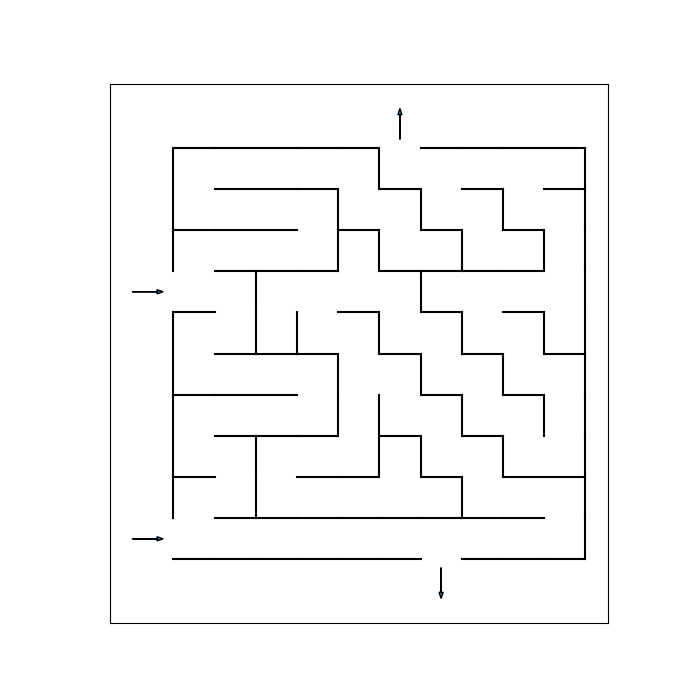
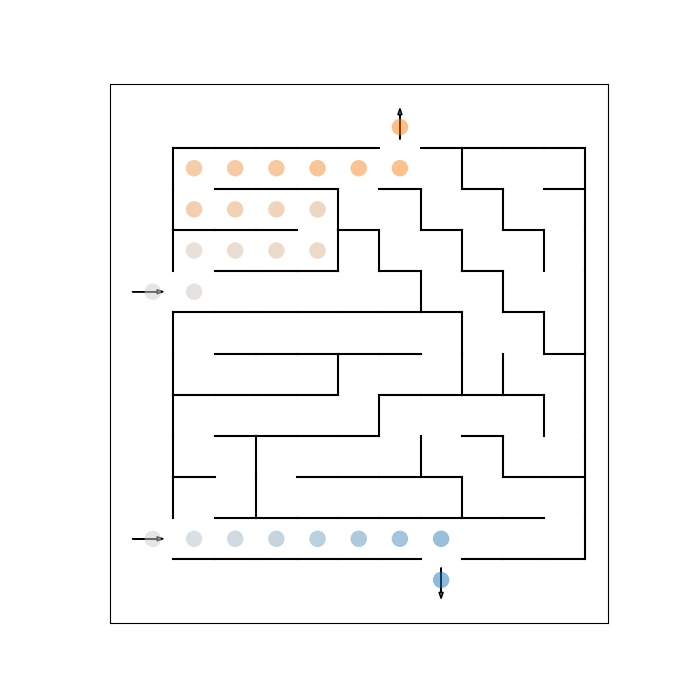
feat: finish task C

diff --git a/solver/taskCSolver.py b/solver/taskCSolver.py
@@ -7,121 +7,94 @@
 # -------------------------------------------------------------------
 
 
+import heapq
+from typing import List, Tuple
 from maze.util import Coordinates
 from maze.maze import Maze
-from typing import List
-import heapq
-
-class ComparableCoordinates:
-    """
-    A wrapper class for Coordinates that allows comparison based on distance.
-    This is necessary because Coordinates cannot be directly compared in a heapq.
-    """
-    def __init__(self, distance: int, coordinates: Coordinates):
-        self.distance = distance
-        self.coordinates = coordinates
-
-    def __lt__(self, other):
-        # Compare based on distance for the priority queue
-        return self.distance < other.distance
-
-    def __eq__(self, other):
-        # Equality check based on distance and coordinates
-        return self.distance == other.distance and self.coordinates == other.coordinates
-
-    def __hash__(self):
-        # Allows the object to be used in sets and dictionaries
-        return hash((self.distance, self.coordinates))
-
-    def __repr__(self):
-        # String representation for debugging
-        return f"ComparableCoordinates(distance={self.distance}, coordinates={self.coordinates})"
 
 class greedySolver:
     def __init__(self):
-        self.paths = []  # To store the paths from entrances to exits
-        self.used_cells = set()  # Track the cells that have been used in paths
-        self.total_cost = 0  # Total cost of paths found
-        self.all_solved = False  # Initialize the all_solved flag
+        self.entrance_exit_paths = {}
+        self.total_explored_cells = 0
+        self.all_solved = False
+        self.total_cost = 0
 
-    def heuristic(self, current: Coordinates, goal: Coordinates) -> int:
-        # Use Manhattan distance as a heuristic
-        return abs(current.getRow() - goal.getRow()) + abs(current.getCol() - goal.getCol())
+    class ComparableCoordinates:
+        """
+        A wrapper class for Coordinates that compares based on total cost (distance + heuristic).
+        """
+        def __init__(self, total_cost: int, coordinates: Coordinates):
+            self.total_cost = total_cost
+            self.coordinates = coordinates
+
+        def __lt__(self, other):
+            return self.total_cost < other.total_cost
+
+        def __repr__(self):
+            return f"ComparableCoordinates(total_cost={self.total_cost}, coordinates={self.coordinates})"
 
     def solveMaze(self, maze: Maze, entrances: List[Coordinates], exits: List[Coordinates]) -> bool:
-        all_paths_found = True  # Flag to check if all paths are found
+        self.entrance_exit_paths.clear()
+        used_cells = set()
+        total_cost = 0
+        all_paths_found = True
 
-        for entrance, exit in zip(entrances, exits):
-            path = self.find_path(maze, entrance, exit)
+        for i in range(len(entrances)):
+            entrance = entrances[i]
+            exit = exits[i]
+            path, cost = self._greedy_search(maze, entrance, exit, used_cells)
+
             if path:
-                self.paths.append(path)
-                self.total_cost += self.calculate_path_cost(maze, path)
-                # Mark cells in this path as used
-                for cell in path:
-                    self.used_cells.add(cell)
+                self.entrance_exit_paths[(entrance, exit)] = path
+                total_cost += cost
+                used_cells.update(path)
             else:
-                all_paths_found = False  # If any path can't be found, mark it as false
-                break  # Stop processing if any path is not found
+                all_paths_found = False
+                break
 
-        # Set the all_solved flag based on whether all paths were found
         self.all_solved = all_paths_found
+        self.total_cost = total_cost
         return all_paths_found
 
-    def find_path(self, maze: Maze, start: Coordinates, goal: Coordinates) -> List[Coordinates]:
-        # Priority queue for the greedy search
-        queue = []
-        heapq.heappush(queue, ComparableCoordinates(0, start))  # Use the wrapper class
-        came_from = {start: None}
-        cost_so_far = {start: 0}
+    def _greedy_search(self, maze: Maze, start: Coordinates, goal: Coordinates, used_cells: set) -> Tuple[List[Coordinates], int]:
+        pq = []
+        dist = {start: 0}
+        predecessors = {}
+        heapq.heappush(pq, self.ComparableCoordinates(0 + self._manhattan_distance(start, goal), start))
 
-        while queue:
-            current = heapq.heappop(queue)  # Get the ComparableCoordinates object
-            curr_coordinates = current.coordinates
+        while pq:
+            current = heapq.heappop(pq)
+            current_cost = dist[current.coordinates]
+            curr_cell = current.coordinates
 
-            if curr_coordinates == goal:
-                return self.reconstruct_path(came_from, start, goal)
+            if curr_cell == goal:
+                return self._reconstruct_path(predecessors, curr_cell), current_cost
 
-            for neighbor in maze.neighbours(curr_coordinates):
-                if neighbor in self.used_cells or maze.hasWall(curr_coordinates, neighbor):
-                    continue  # Skip cells that are already used or have walls
+            for neighbor in maze.neighbours(curr_cell):
+                if neighbor in used_cells or maze.hasWall(curr_cell, neighbor):
+                    continue
 
-                new_cost = cost_so_far[curr_coordinates] + maze.edgeWeight(curr_coordinates, neighbor)
-                if neighbor not in cost_so_far or new_cost < cost_so_far[neighbor]:
-                    cost_so_far[neighbor] = new_cost
-                    priority = new_cost + self.heuristic(neighbor, goal)
-                    heapq.heappush(queue, ComparableCoordinates(priority, neighbor))  # Use the wrapper class
-                    came_from[neighbor] = curr_coordinates
+                new_cost = current_cost + maze.edgeWeight(curr_cell, neighbor)
 
-        return None  # No valid path was found
+                if neighbor not in dist or new_cost < dist[neighbor]:
+                    dist[neighbor] = new_cost
+                    predecessors[neighbor] = curr_cell
+                    heapq.heappush(pq, self.ComparableCoordinates(new_cost + self._manhattan_distance(neighbor, goal), neighbor))
 
-    def reconstruct_path(self, came_from, start, goal) -> List[Coordinates]:
-        # Reconstruct the path from start to goal
-        current = goal
+        return [], 0
+
+    def _manhattan_distance(self, start, goal):
+        return abs(start.getRow() - goal.getRow()) + abs(start.getCol() - goal.getCol())
+
+    def _reconstruct_path(self, predecessors: dict, current: Coordinates) -> List[Coordinates]:
         path = []
-        while current != start:
+        while current:
             path.append(current)
-            current = came_from[current]
-        path.append(start)
-        path.reverse()  # Reverse the path to go from start to goal
-        return path
-
-    def calculate_path_cost(self, maze: Maze, path: List[Coordinates]) -> int:
-        """
-        Calculate the total cost of the path using the edge weights in the maze.
-        """
-        cost = 0
-        for i in range(len(path) - 1):
-            cost += maze.edgeWeight(path[i], path[i + 1])
-        return cost
+            current = predecessors.get(current, None)
+        return path[::-1]
 
     def cellsExplored(self) -> int:
-        """
-        Returns the number of unique cells explored during the search.
-        """
-        return len(self.used_cells)
+        return self.total_explored_cells
 
     def totalPathCost(self) -> int:
-        """
-        Returns the total cost of all paths found.
-        """
         return self.total_cost
